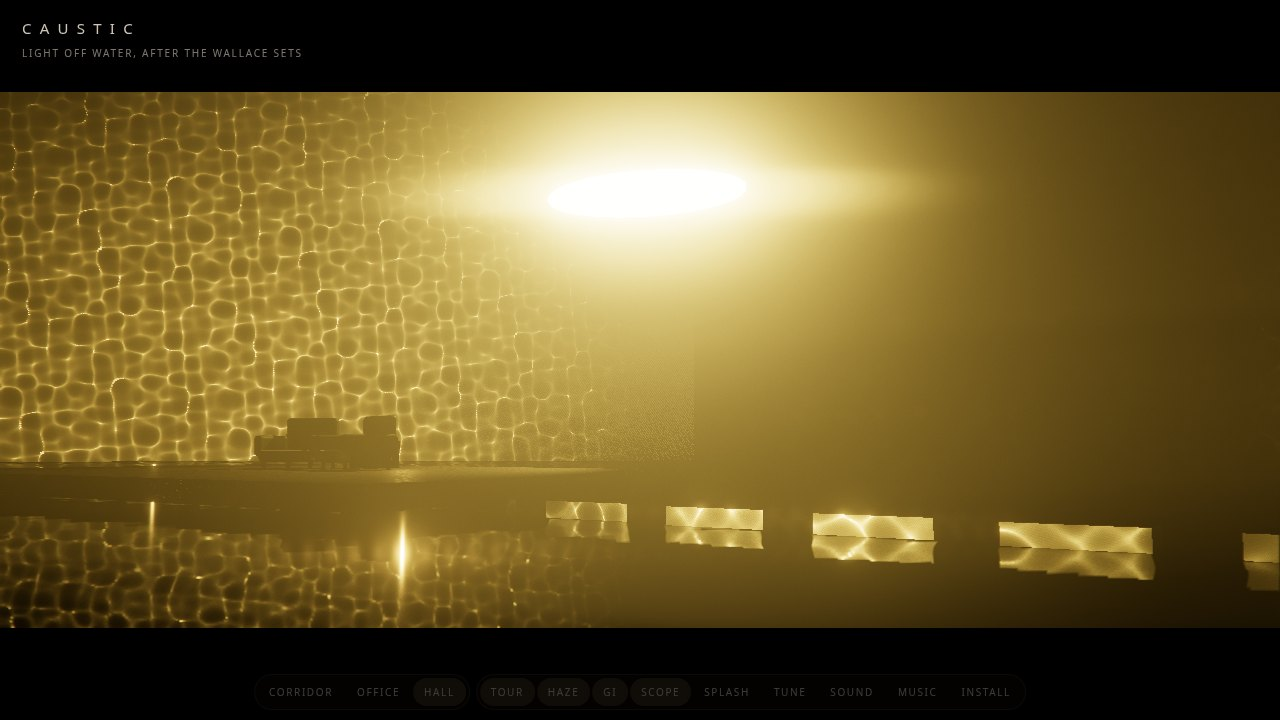
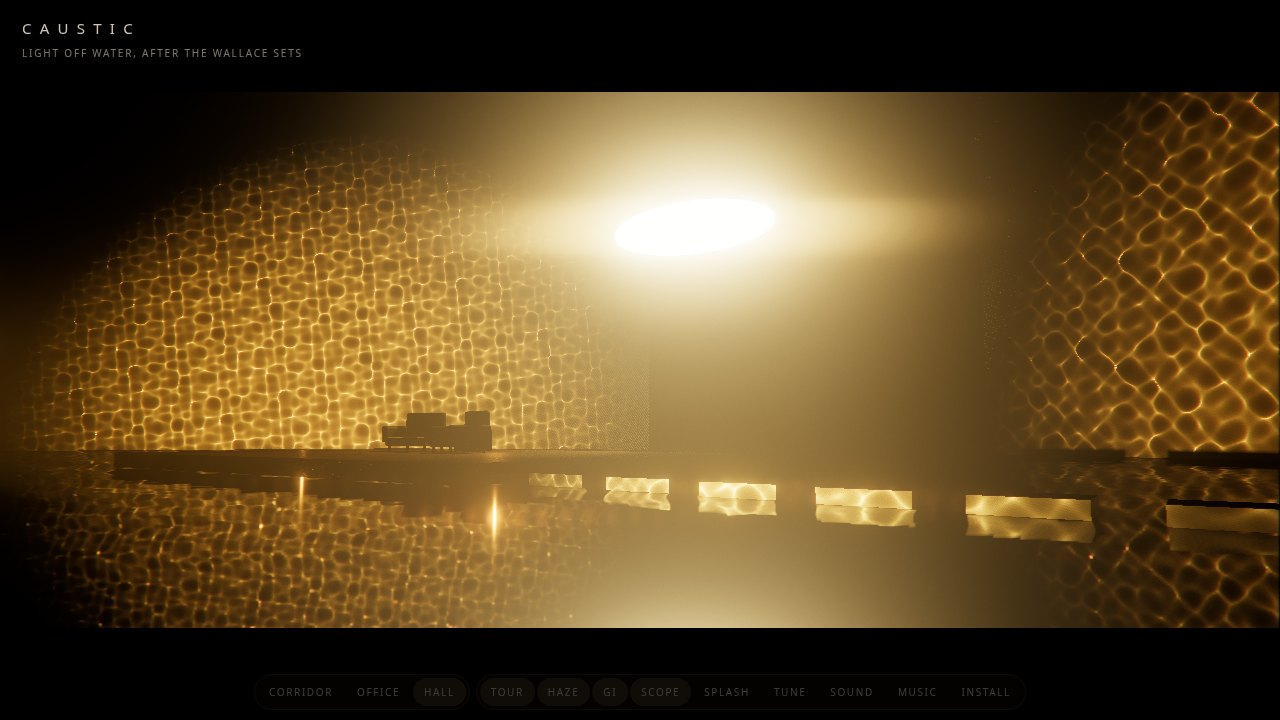
Caustic: tuned defaults, wider lenses, closer hall walls, side-to-side swing, tour cuts across sets first

diff --git a/vibes/caustic/scenes.js b/vibes/caustic/scenes.js
@@ -22,7 +22,7 @@ import { wood, rough, plain, leather, water } from './materials.js';
 // One palette for the three sets, as in the film: the same gold lamps (tungsten through warm gels), the same rough
 // concrete, the same grade (each colour pulled toward its luminance times this gold; sat is how much survives).
 const GOLD = 0xffb840, GOLD2 = 0xffc050;
-const GRADE = { tint: [1.0, 0.7, 0.14], sat: 0.28 };
+const GRADE = { tint: [1.0, 0.7, 0.14], sat: 0.88 };
 const CONCRETE = 0x8a7c62, BOUNCE = 0x8a7656;
 
 function box(g, w, h, d, mat, x, y, z, { cast = true, receive = true, round = 0 } = {}) {
@@ -83,7 +83,7 @@ export function corridor(renderer, { phone = false } = {}) {
   box(g, 20, 0.2, 30, dark, 0, H + 3.2, -4, { cast: false }); // a dark sky over it all, for the haze to end on
 
   // light: steep reflections from above, from either side and from behind, all off one sloshing trough
-  const lines = new Caustics(renderer, { kMin: 2, kMax: 9, amp: 1.0, depth: 0.075, speed: 0.55, dir: 0.3, spread: 1.1, grid: phone ? 160 : 256, seed: 3 });
+  const lines = new Caustics(renderer, { kMin: 2, kMax: 9, amp: 1.0, depth: 0.0675, speed: 0.55, dir: 0.3, spread: 1.1, grid: phone ? 160 : 256, seed: 3 });
   const sh = phone ? 512 : 1024;
   const L = [
     aim(g, causticSpot(lines, { color: GOLD, intensity: 1900, angle: 0.4, penumbra: 0.5, scale: 3.6, rot: 0.6, shadow: sh, far: 40 }), [8.5, 15, -2], [-2.7, 2.2, -3.2]),
@@ -94,12 +94,12 @@ export function corridor(renderer, { phone = false } = {}) {
   const fill = new THREE.HemisphereLight(0x8a7044, 0x1a1408, 0.06); g.add(fill);
   return {
     group: g, caustics: [lines], lights: L,
-    look: { exposure: 0.72, ...GRADE, haze: 0.05, fog: 0x2a1f0c, bg: 0x050302 },
+    look: { exposure: 0.72, ...GRADE, haze: 0.0205, fog: 0x2a1f0c, bg: 0x050302 },
     volume: { size: [W, H + 1.5, z0 - z1], at: [0, (H + 1.5) / 2, (z0 + z1) / 2] },
     shots: [
-      { from: [0, 1.55, 2.6], to: [0, 1.6, -1.2], look0: [0, 2.0, -8], look1: [0, 2.1, -9], dur: 16, fov: 46 },
-      { from: [-2.0, 3.2, -1.5], to: [-1.6, 3.0, -3.5], look0: [2.6, 2.2, -4], look1: [2.6, 2.0, -6], dur: 12, fov: 40 },
-      { from: [1.5, 0.45, -2.2], to: [0.8, 0.6, -3.6], look0: [0, 1.0, -8], look1: [0, 1.6, -9], dur: 12, fov: 46 },
+      { from: [0, 1.55, 2.6], to: [0, 1.6, -1.2], look0: [0, 2.0, -8], look1: [0, 2.1, -9], dur: 16, fov: 58 },
+      { from: [-2.0, 3.2, -1.5], to: [-1.6, 3.0, -3.5], look0: [2.6, 2.2, -4], look1: [2.6, 2.0, -6], dur: 12, fov: 50 },
+      { from: [1.5, 0.45, -2.2], to: [0.8, 0.6, -3.6], look0: [0, 1.0, -8], look1: [0, 1.6, -9], dur: 12, fov: 58 },
     ],
     update() {},
   };
@@ -123,7 +123,7 @@ export function office(renderer, { phone = false } = {}) {
   }
   box(g, 2 * X, H, 0.4, walls, 0, H / 2, zf + 0.2);
   // the skylight: a well in the ceiling over water, glowing with its own caustic
-  const soft = new Caustics(renderer, { kMin: 1, kMax: 4, amp: 1.0, depth: 0.1, speed: 0.35, dir: 0.2, spread: Math.PI, grid: phone ? 128 : 192, seed: 7, disp: 0.03 });
+  const soft = new Caustics(renderer, { kMin: 1, kMax: 4, amp: 1.0, depth: 0.09, speed: 0.35, dir: 0.2, spread: Math.PI, grid: phone ? 128 : 192, seed: 7, disp: 0.03 });
   const sky = new THREE.MeshBasicNodeMaterial();
   sky.colorNode = texture(soft.texture, uv().mul(vec2(1.6, 0.5))).rgb.mul(color(0xffb860)).mul(2.2).add(color(0x5a3810));
   const skyMesh = new THREE.Mesh(new THREE.PlaneGeometry(4.6, 1.4), sky); skyMesh.rotation.x = Math.PI / 2; skyMesh.position.set(0, H - 0.01, -1.5); g.add(skyMesh);
@@ -140,7 +140,7 @@ export function office(renderer, { phone = false } = {}) {
 
   // light: the reflection of water from troughs along the front wall up onto the back and side walls, and the
   // skylight's down onto the floor. Broad, slow ribbons.
-  const broad = new Caustics(renderer, { kMin: 2, kMax: 6, amp: 1.0, depth: 0.06, speed: 0.4, dir: 0, spread: 0.9, grid: phone ? 160 : 256, seed: 11 });
+  const broad = new Caustics(renderer, { kMin: 2, kMax: 6, amp: 1.0, depth: 0.054, speed: 0.4, dir: 0, spread: 0.9, grid: phone ? 160 : 256, seed: 11 });
   const sh = phone ? 512 : 1024;
   const L = [
     aim(g, causticSpot(broad, { color: GOLD, intensity: 900, angle: 0.42, penumbra: 0.7, scale: 2.4, rot: 0.1, shadow: sh }), [0, 0.6, 5.3], [0, 3.6, -8]),
@@ -152,12 +152,12 @@ export function office(renderer, { phone = false } = {}) {
   g.add(new THREE.HemisphereLight(0x8a7044, 0x2a2010, 0.08));
   return {
     group: g, caustics: [broad, soft], lights: L,
-    look: { exposure: 0.72, ...GRADE, haze: 0.025, fog: 0x2a200c, bg: 0x070502 },
+    look: { exposure: 0.72, ...GRADE, haze: 0.0103, fog: 0x2a200c, bg: 0x070502 },
     volume: { size: [2 * X, H, zf - zb], at: [0, H / 2, (zf + zb) / 2] },
     shots: [
-      { from: [0, 1.7, 5.5], to: [0, 1.75, 4.0], look0: [0, 2.3, -8], look1: [0, 2.2, -8], dur: 18, fov: 62 },
-      { from: [-4.4, 1.4, 3.2], to: [-3.6, 1.5, 2.2], look0: [3.3, 1.2, -3], look1: [3.1, 1.3, -3.5], dur: 12, fov: 54 },
-      { from: [3.0, 4.5, 5.0], to: [1.2, 4.8, 5.0], look0: [-1.5, 1.5, -6], look1: [0, 1.4, -6], dur: 12, fov: 58 },
+      { from: [0, 1.7, 5.5], to: [0, 1.75, 4.0], look0: [0, 2.3, -8], look1: [0, 2.2, -8], dur: 18, fov: 72 },
+      { from: [-4.4, 1.4, 3.2], to: [-3.6, 1.5, 2.2], look0: [3.3, 1.2, -3], look1: [3.1, 1.3, -3.5], dur: 12, fov: 68 },
+      { from: [3.0, 4.5, 5.0], to: [1.2, 4.8, 5.0], look0: [-1.5, 1.5, -6], look1: [0, 1.4, -6], dur: 12, fov: 72 },
     ],
     update() {},
   };
@@ -179,7 +179,7 @@ export function hall(renderer, scene, { phone = false } = {}) {
   // the far walls: two long curved screens, open in the middle (the dark beyond), for the light to climb
   const wallMat = rough({ base: 0x6a604c, panel: [6, 40], seam: 0.1 });
   for (const s of [-1, 1]) {
-    const geo = new THREE.CylinderGeometry(34, 34, 16, 96, 1, true, s < 0 ? Math.PI + 0.25 : Math.PI - 1.45, 1.2);
+    const geo = new THREE.CylinderGeometry(24, 24, 16, 96, 1, true, s < 0 ? Math.PI + 0.25 : Math.PI - 1.45, 1.2);
     const m = new THREE.Mesh(geo, wallMat); m.material.side = THREE.BackSide; m.position.set(0, 8, 8); m.receiveShadow = true; g.add(m);
   }
   // the light hanging overhead: a thin glowing disc (an ellipse from where you stand) on a long cable from the dark,
@@ -191,11 +191,11 @@ export function hall(renderer, scene, { phone = false } = {}) {
   slit.position.y = -LEN; pivot.add(slit);
   const down = new THREE.SpotLight(GOLD2, 260, 0, 0.45, 0.8, 2); down.castShadow = true; down.shadow.mapSize.set(1024, 1024); down.shadow.bias = -0.0004;
   down.position.set(0, -LEN - 0.1, 0.2); pivot.add(down); down.target.position.set(0, 0, -0.5); g.add(down.target);
-  const ripples = new Caustics(renderer, { kMin: 5, kMax: 16, amp: 1.0, depth: 0.05, speed: 0.6, dir: 0, spread: Math.PI, grid: phone ? 160 : 256, seed: 5 });
+  const ripples = new Caustics(renderer, { kMin: 5, kMax: 16, amp: 1.0, depth: 0.045, speed: 0.6, dir: 0, spread: Math.PI, grid: phone ? 160 : 256, seed: 5 });
   const gold = GOLD, sh = phone ? 512 : 1024;
   const L = [
-    aim(g, causticSpot(ripples, { color: gold, intensity: 5000, angle: 0.5, penumbra: 1, scale: 4.5, rot: 0.2, shadow: sh, far: 90 }), [-4, 0.1, 12], [-24, 0.5, -14]),
-    aim(g, causticSpot(ripples, { color: gold, intensity: 5000, angle: 0.5, penumbra: 1, scale: 4.2, rot: -0.4, drift: [0.002, 0], shadow: sh, far: 90 }), [4, 0.1, 12], [24, 0.5, -14]),
+    aim(g, causticSpot(ripples, { color: gold, intensity: 5000, angle: 0.5, penumbra: 1, scale: 4.5, rot: 0.2, shadow: sh, far: 90 }), [-4, 0.1, 10], [-17, 0.5, -10]),
+    aim(g, causticSpot(ripples, { color: gold, intensity: 5000, angle: 0.5, penumbra: 1, scale: 4.2, rot: -0.4, drift: [0.002, 0], shadow: sh, far: 90 }), [4, 0.1, 10], [17, 0.5, -10]),
     down,
   ];
   for (const l of L.slice(0, 2)) g.add(bounce(l, { albedo: BOUNCE, share: 0.01, off: 4.0 }));
@@ -205,15 +205,15 @@ export function hall(renderer, scene, { phone = false } = {}) {
   g.add(new THREE.HemisphereLight(0x3a3018, 0x050302, 0.03));
   return {
     group: g, caustics: [ripples], lights: L, reflector: w.reflector,
-    look: { exposure: 1.0, ...GRADE, haze: 0.016, fog: 0x0a0803, bg: 0x000000 },
+    look: { exposure: 1.0, ...GRADE, haze: 0.0066, fog: 0x0a0803, bg: 0x000000 },
     volume: { size: [50, 14, 30], at: [0, 7, -9] }, // stops short of the low wall lamps, which would glare
     shots: [
-      { from: [3, 6.5, 18], to: [1.5, 6.0, 16], look0: [0, 2.2, -5], look1: [0, 2.4, -5], dur: 18, fov: 40 },
-      { from: [-6, 0.9, 6], to: [-4.5, 0.8, 5], look0: [0.5, 0.8, -1], look1: [0, 1.0, -2], dur: 12, fov: 38 },
-      { from: [12, 0.5, 9], to: [9, 0.6, 8], look0: [-2, 2.5, -12], look1: [-6, 3.5, -16], dur: 14, fov: 40 },
+      { from: [3, 6.5, 18], to: [1.5, 6.0, 16], look0: [0, 2.2, -5], look1: [0, 2.4, -5], dur: 18, fov: 50 },
+      { from: [-6, 0.9, 6], to: [-4.5, 0.8, 5], look0: [0.5, 0.8, -1], look1: [0, 1.0, -2], dur: 12, fov: 48 },
+      { from: [12, 0.5, 9], to: [9, 0.6, 8], look0: [-2, 2.5, -10], look1: [-5, 3.5, -12], dur: 14, fov: 50 },
     ],
-    // two slow pendulum swings at slightly different periods, so the light's path wanders like a real one
-    update(t) { pivot.rotation.x = 0.06 * Math.sin(t * 2 * Math.PI / 7.2); pivot.rotation.z = 0.04 * Math.sin(t * 2 * Math.PI / 9.1 + 1.3); },
+    // a slow pendulum swing, mostly left to right (7.5 degrees each way, 7.6 s), with a little fore-and-aft so it wanders
+    update(t) { pivot.rotation.z = 0.13 * Math.sin(t * 2 * Math.PI / 7.6); pivot.rotation.x = 0.02 * Math.sin(t * 2 * Math.PI / 11.3 + 1.3); },
   };
 }
 

diff --git a/vibes/caustic/main.js b/vibes/caustic/main.js
@@ -153,7 +153,7 @@ function build(n) {
   if (!sets[n]) sets[n] = n === 'hall' ? SCENES.hall(renderer, scene, { phone }) : SCENES[n](renderer, { phone });
   return sets[n];
 }
-function show(n) {
+function show(n, shot = 0) {
   const S = build(n);
   if (cur) scene.remove(cur.group);
   cur = S; name = n; scene.add(S.group);
@@ -164,7 +164,7 @@ function show(n) {
   document.querySelectorAll('[data-set]').forEach((b) => b.classList.toggle('on', b.dataset.set === n));
   $('caption').textContent = { corridor: 'The corridor', office: 'Wallace', hall: 'The hall of water' }[n];
   $('caption').classList.remove('on'); void $('caption').offsetWidth; $('caption').classList.add('on');
-  shotIndex = 0; startShot(0, true);
+  startShot(shot, true);
   history.replaceState(null, '', '#' + n);
 }
 
@@ -232,9 +232,14 @@ function place(t) {
   if (camera.fov !== s.fov) { camera.fov = s.fov; camera.updateProjectionMatrix(); }
 }
 const order = ['corridor', 'office', 'hall'];
-function next() { // the next shot, and after a set's last shot the next set
-  if (shotIndex + 1 < cur.shots.length) cut(() => startShot(shotIndex + 1));
-  else cut(() => show(order[(order.indexOf(name) + 1) % order.length]));
+// The tour goes round the sets first: corridor, office, hall at their first angle, then all three again at
+// their second, and so on, so every cut changes the room.
+let round = 0;
+function next() {
+  const k = order.indexOf(name) + 1;
+  if (k >= order.length) round++;
+  const n = order[k % order.length];
+  cut(() => show(n, round % build(n).shots.length));
 }
 function cut(fn) { pending = fn; fadeT = 0.0001; }
 function freeLook() { if (!tour) return; tour = false; controls.enabled = true; $('tour').classList.remove('on'); }

diff --git a/vibes/caustic/POST.md b/vibes/caustic/POST.md
@@ -45,7 +45,7 @@ The real sets glow because the amber light bounces off wood and concrete. Two ch
 
 ## The hanging light
 
-The hall's light is a thin glowing disc on a long cable, so from the shore it reads as the ellipse in the film. It hangs from a pivot 13 m up and swings as a pendulum: two slow sines, 7.2 s and 9.1 s, of 3.4 and 2.3 degrees, so its path wanders. The spot light that throws the pool of light onto the platform hangs from the same pivot and aims at a fixed point, so the pool and the chairs' shadows sway with it, and the disc's reflection slides over the black water.
+The hall's light is a thin glowing disc on a long cable, so from the shore it reads as the ellipse in the film. It hangs from a pivot 13 m up and swings as a pendulum: mostly left to right, 7.5 degrees each way every 7.6 s, with a small fore-and-aft sway of about 1 degree at 11.3 s so its path wanders. The spot light that throws the pool of light onto the platform hangs from the same pivot and aims at a fixed point, so the pool and the chairs' shadows sway with it, and the disc's reflection slides over the black water.
 
 ## Haze, water and the lens
 
@@ -60,7 +60,7 @@ The gold comes from four places, and they stack:
 1. **The lamps**: every caustic spot light is the same gold, `0xffb840` (or `0xffc050` for the skylight and the hanging light), as tungsten through warm gels is.
 2. **The materials**: all three sets share one rough concrete, a neutral warm grey (`0x76694e`), so the walls don't add a colour of their own.
 3. **The bounce lights**: their colour is lamp times surface.
-4. **The grade**, last and strongest: each pixel is pulled toward its luminance times a gold tint, `mix(tint * luma * 2.2, colour, sat)`, with a toe that sinks the shadows. All three sets share one grade: tint 1.0 / 0.70 / 0.14 with sat 0.28, so only 28% of the scene's own colour survives.
+4. **The grade**, last and strongest: each pixel is pulled toward its luminance times a gold tint, `mix(tint * luma * 2.2, colour, sat)`, with a toe that sinks the shadows. All three sets share one grade: tint 1.0 / 0.70 / 0.14 with sat 0.88, so most of the scene's own colour survives and the gold lamps on warm concrete carry the tone, with the tint only pulling the rest toward amber. (A first pass kept just 28%, which flattened everything to one beige; the settings that look right came from tuning by eye in the Tune panel and were then baked in as the defaults.)
 
 The first version gave each set its own lamp colour, material and grade, and the corridor was the most orange on all four counts: oiled wood that is orange-brown itself, lamps at `0xffa53a` (the most orange), a tint whose green was lowest (0.62) and wood-coloured bounce lights. Against the three film stills, which are all the same gold, that read as a different film. Now `scenes.js` holds one `GOLD`, one `GRADE` and one `CONCRETE` for all three, and the sets differ only in their water and their geometry.
 

diff --git a/CHANGELOG.md b/CHANGELOG.md
@@ -1,6 +1,7 @@
 # Logs
 
 11 Nov 2026
+- Caustic: new defaults from tuning by eye (more of the scene's colour kept through the grade, haze x0.41, caustic sharpness x0.9), lenses about 25% wider, the hall's walls closer (34 m to 24 m radius) and its light swinging mostly left to right, and the tour now cuts across the three sets before it moves to each set's next camera angle
 - Caustic: the three sets made consistent against the film stills. One gold lamp colour, one grade (tint 1.0/0.70/0.14, 28% of the scene's colour kept) and one rough board-formed concrete (grit, air pits, formwork streaks, bumped into the normal) for all three; the corridor was orange because its wood, lamps, tint and bounce were all the most orange. The corridor is wider (5.4 m), the office narrower (10.8 m) with wider lenses, and the hall's light is a disc on a cable that swings as a slow pendulum, its beam and the platform's shadows swaying with it
 - Caustic: touch the water and tune it. Tap a lit wall and a ring of ripples runs out from that point on the water that lights it (the tap is raycast and projected through the lamp's shadow matrix and its caustic transform to the tile; the splash is a wrapped wave packet added to the gradient), Splash stirs at random. A Tune panel: Warmth (the grade's tint and the lamps' colour), Colour, Exposure, Haze, Ripple size, Sharpness, Wave height, Water speed. Music: a slow synthesised cyberpunk score (CS-80-style pads, sequenced bass, delayed arpeggio, lead, gated-snare drum machine). A technical write-up in POST.md. `node smoke.js` (21 checks)
 - Caustic replaced: the lens and cup toy are gone, and Caustic is now the caustic-lit Wallace sets from Blade Runner 2049 (corridor, office, hall of water) in three.js r187 WebGPU + TSL. Lit the way Deakins lit them, lamps bounced off water: each set renders a tileable caustic texture from a travelling-wave surface (grid projected along the gradient, area ratio from derivatives, three draws for dispersion), projected through shadowed spot lights' `colorNode`. SSGI + TRAA and a virtual point light per beam for the bounce, raymarched volume haze, a reflector floor in the hall, bloom with an anamorphic streak, amber grade, 2.39:1 bars, a camera tour, a drone. `node smoke.js` (12 checks: WebGL 2 in full, WebGPU without the haze, which SwiftShader can't run)

diff --git a/vibes/caustic/README.md b/vibes/caustic/README.md
@@ -19,7 +19,7 @@ All three share one gold lamp colour, one rough concrete and one grade, so they 
 - **Tap a lit wall** to splash the water that lights it: a ring of ripples runs out from where you touched. **Splash** (`s`) stirs the water at random.
 - **Tune** (`t`) opens sliders: Warmth (how orange: the grade's tint and the lamps' colour), Colour (how much of the scene's own colour survives the grade), Exposure, Haze, Ripple size, Sharpness (the focus of the lines), Wave height (calm to choppy) and Water speed. Each scales the set's own value; double-click a slider, or Reset, to go back.
 - **Haze** puts haze in the beams. **GI** turns screen-space global illumination on or off. **Scope** shows the 2.39:1 bars. **Sound** plays a drone with water under it. **Music** (`m`) plays a slow synthesised cyberpunk score. `h` hides the UI.
-- Query flags: `?set=hall`, `?webgl` (the WebGL 2 backend), `?phone` (the lighter path phones get), `?nohaze`, `?novol`, `?nogi`, `?notaa`, `?steps=N` (haze steps), `?free` (no tour), `?paused`.
+- Query flags: `?set=hall`, `?webgl` (the WebGL 2 backend), `?phone` (the lighter path phones get), `?nohaze`, `?novol`, `?nogi`, `?notaa`, `?steps=N` (haze steps), `?free` (no tour; the tour cuts through the three sets in turn, then round again at each set's next angle), `?paused`.
 
 ## How it works
 
